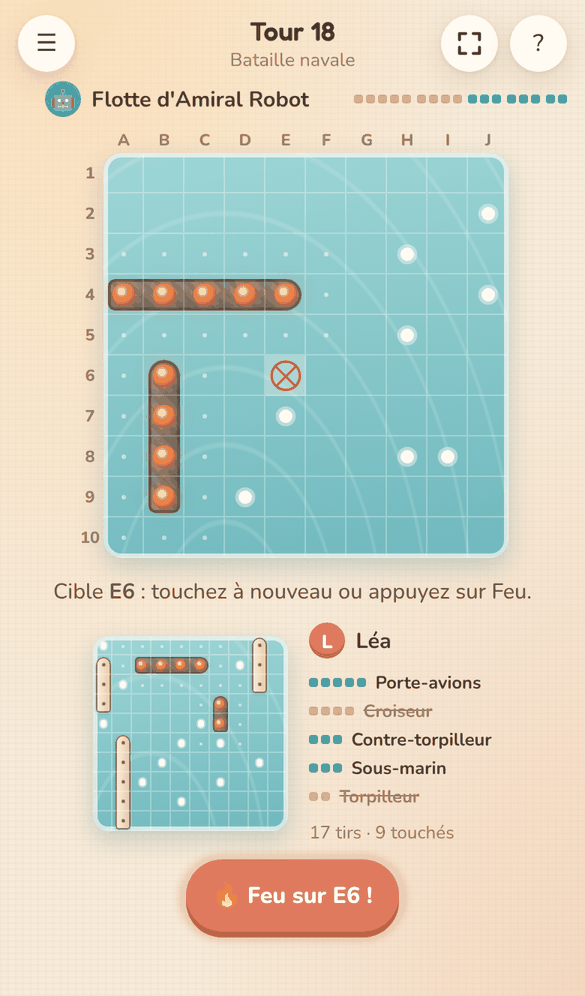
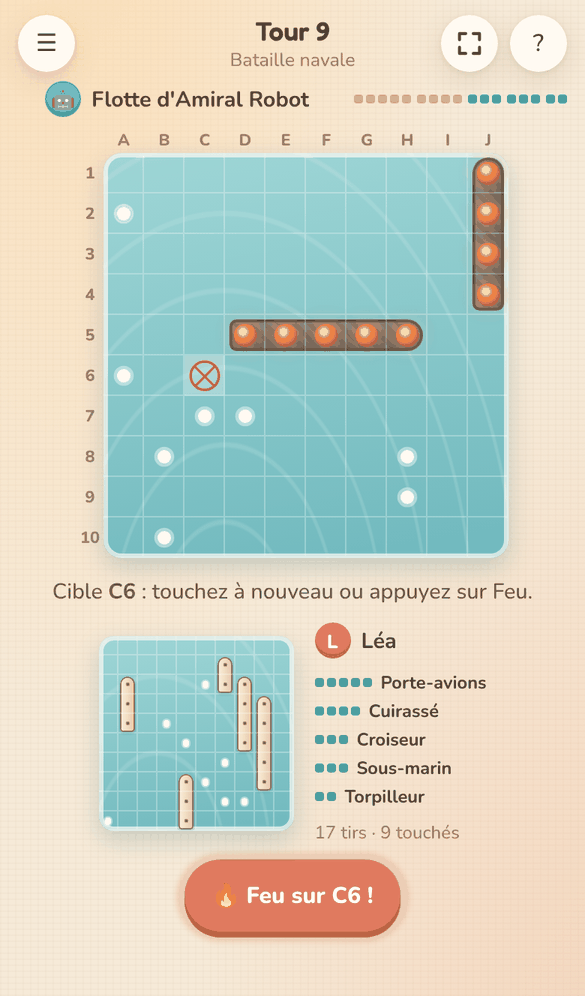
Bataille navale : règles classiques, navires collés autorisés et touché = on rejoue
Flotte du Touché Coulé (porte-avions, cuirassé, croiseur, sous-marin, torpilleur).
Les navires peuvent se toucher mais pas se chevaucher ; plus d'eau déduite autour des navires coulés.
Un tir au but permet de rejouer (aussi pour l'ordinateur) ; à deux, l'adversaire voit et revoit
tous les tirs du tour. Captures d'écran et README mis à jour.

Claude-Session: https://claude.ai/code/session_01AF6taeG9chrrGYHmKUShLX

diff --git a/js/games/naval/view.js b/js/games/naval/view.js
@@ -7,7 +7,7 @@ import { confirmDialog, toast, esc } from '../../ui/dialog.js';
 import { soundOn, setSound, shotSound, splashSound, boomSound, tickSound } from '../../ui/sound.js';
 import { fullscreenButton } from '../../ui/fullscreen.js';
 
-const { N, COLS, FLEET, MISS, HIT, WATER } = R;
+const { N, COLS, FLEET } = R;
 const avatar = (p) => `<span class="avatar" style="--pc:${p.color || '#c98a4b'}">${p.cpu ? '🤖' : esc(p.name.slice(0, 1).toUpperCase())}</span>`;
 // « de Bob », « d'Alice »
 const de = (name) => (/^[aeiouyhàâéèêëîïôûü]/i.test(name) ? `d'${name}` : `de ${name}`);
@@ -26,8 +26,8 @@ export function mount(root, s, host) {
     drag: null,
     aim: null, // case visée, avant de tirer
     busy: false, // effet en cours ou tour de l'ordinateur
-    hide: null, // { board, idx, around } : résultat pas encore montré (l'effet est en route)
-    fresh: null, // { board, idx, sunk, around } : résultat qui vient d'apparaître
+    hide: null, // { board, cells } : résultats pas encore montrés (l'effet est en route)
+    fresh: null, // { board, idx, sunk } : résultat qui vient d'apparaître
     overlay: null, // menu | rules
     endClosed: false,
     finished: false,
@@ -81,22 +81,19 @@ export function mount(root, s, host) {
     const sunk = kind === 'place' ? [] : R.sunkShips(s, owner);
     const hide = ui.hide?.board === kind ? ui.hide : null;
     const fresh = ui.fresh?.board === kind ? ui.fresh : null;
-    const freshAround = fresh ? fresh.around || [] : [];
     const live = kind === 'enemy' && canFire();
     let cells = '';
     for (let i = 0; i < N * N; i++) {
       let v = seen ? seen[i] : 0;
-      if (hide && (hide.idx === i || hide.around?.includes(i))) v = 0;
+      if (hide?.cells.includes(i)) v = 0;
       const cls = [`v${v}`];
       if (fresh && (fresh.idx === i)) cls.push('new');
-      const d = freshAround.indexOf(i);
-      if (d >= 0) cls.push('new');
       if (ui.aim === i && kind === 'enemy') cls.push('aim');
       if (live && !v) cls.push('open');
-      cells += `<button class="cell ${cls.join(' ')}" data-cell="${i}" data-k="${kind}" ${d >= 0 ? `style="--d:${200 + d * 35}ms"` : ''} aria-label="${R.cellName(i)}"></button>`;
+      cells += `<button class="cell ${cls.join(' ')}" data-cell="${i}" data-k="${kind}" aria-label="${R.cellName(i)}"></button>`;
     }
     const ships = fleet.map((sh, k) => {
-      const isSunk = sunk.includes(k) && !(hide && R.shipCells(sh).includes(hide.idx));
+      const isSunk = sunk.includes(k) && !(hide && R.shipCells(sh).some((x) => hide.cells.includes(x)));
       if (kind === 'enemy' && !isSunk && s.phase !== 'end') return '';
       const cls = ['ship', sh.h ? 'h' : 'v'];
       if (isSunk) cls.push('sunk');
@@ -126,7 +123,7 @@ export function mount(root, s, host) {
     const k = ui.selShip;
     return `<section class="place">
       <h2>${avatar(P(s.placer))} Placez votre flotte</h2>
-      <p class="muted">Faites glisser un navire pour le déplacer. Touchez-le puis « Tourner » pour changer son sens. Les navires ne doivent pas se toucher.</p>
+      <p class="muted">Faites glisser un navire pour le déplacer. Touchez-le puis « Tourner » pour changer son sens. Les navires peuvent se toucher, mais pas se chevaucher.</p>
       ${board('place', s.placer, big)}
       <ul class="dock">${FLEET.map((f, j) => `<li><button class="${k === j ? 'on' : ''}" data-pick="${j}"><span class="segs">${'<i></i>'.repeat(f.size)}</span>${f.name}</button></li>`).join('')}</ul>
       <div class="bn-actions">
@@ -141,7 +138,7 @@ export function mount(root, s, host) {
     let target = ship;
     if (!R.fits(ui.draft, target, k)) {
       target = snap ? R.nearestFit(ui.draft, ship, k) : null;
-      if (!target) { toast('Pas de place ici : les navires ne doivent pas se toucher'); return false; }
+      if (!target) { toast('Pas de place ici : les navires ne peuvent pas se chevaucher'); return false; }
     }
     ui.draft[k] = target;
     tickSound({ pitch: 0.8 });
@@ -192,7 +189,7 @@ export function mount(root, s, host) {
     if (!d) return;
     ui.drag = null;
     if (d.moved && d.pos) {
-      if (R.fits(ui.draft, d.pos, d.k)) { ui.draft[d.k] = d.pos; tickSound({ pitch: 0.8 }); } else toast('Les navires ne doivent pas se toucher');
+      if (R.fits(ui.draft, d.pos, d.k)) { ui.draft[d.k] = d.pos; tickSound({ pitch: 0.8 }); } else toast('Les navires ne peuvent pas se chevaucher');
     }
     ui.selShip = d.k;
     render();
@@ -235,6 +232,7 @@ export function mount(root, s, host) {
     const l = s.last;
     if (s.current !== me && l?.by === me) return `${lastText(l, true)}`;
     if (ui.aim != null) return `<span>Cible <b>${R.cellName(ui.aim)}</b> : touchez à nouveau ou appuyez sur Feu.</span>`;
+    if (l?.by === me && l.hit) return `<span class="again">${lastText(l, true)}</span><span>Vous avez touché : rejouez !</span>`;
     const before = l && l.by !== me ? `<span class="recv">${esc(P(l.by).name)} : ${lastText(l, false)}</span>` : '';
     return `${before}<span>À vous ! Touchez une case de la grille adverse.</span>`;
   }
@@ -266,8 +264,10 @@ export function mount(root, s, host) {
     if (s.phase === 'place') {
       news = '<p>Placez votre flotte en secret : l\'autre joueur ne doit pas regarder !</p>';
       btn = 'C\'est moi, placer ma flotte';
-    } else if (s.last && s.last.by !== i) {
-      news = `<div class="news"><b>Pendant ce temps…</b><ul><li class="${s.last.hit ? 'secret' : ''}">${esc(P(s.last.by).name)} a tiré : ${esc(lastText(s.last, false))}</li></ul></div>`;
+    } else if (s.volley && s.volley.by !== i) {
+      const shots = s.volley.shots.map((x) => `<li class="${x.hit ? 'secret' : ''}">${esc(lastText(x, false))}</li>`).join('');
+      const n = s.volley.shots.length;
+      news = `<div class="news"><b>${esc(P(s.volley.by).name)} a tiré ${n > 1 ? `${n} fois` : 'une fois'} :</b><ul>${shots}</ul></div>`;
     }
     return `<div class="overlay handoff">
       <div class="sheet">
@@ -326,14 +326,15 @@ export function mount(root, s, host) {
         <p>Chaque joueur cache sa flotte sur une grille de 10 × 10 cases, puis on tire chacun son tour pour couler les navires adverses. Le premier qui coule toute la flotte d'en face gagne.</p>
         <h3>La flotte</h3>
         <ul class="fleet-rules">${FLEET.map((f) => `<li><span class="segs">${'<i></i>'.repeat(f.size)}</span><b>${f.name}</b> · ${f.size} cases</li>`).join('')}</ul>
-        <p>Les navires sont droits (horizontaux ou verticaux) et <b>ne se touchent pas</b>, même par un coin.</p>
+        <p>Les navires sont droits (horizontaux ou verticaux). Ils <b>peuvent se toucher</b>, mais pas se chevaucher.</p>
         <h3>À votre tour</h3>
         <ol>
           <li>Touchez une case de la grille adverse pour viser, puis touchez-la encore (ou « Feu ») pour tirer.</li>
           <li><b>Dans l'eau</b> 💦, <b>touché</b> 💥 ou <b>coulé</b> quand toutes les cases d'un navire sont touchées.</li>
-          <li>Autour d'un navire coulé, les cases sont forcément de l'eau : elles sont marquées pour vous.</li>
+          <li><b>Touché ? Vous rejouez</b>, jusqu'à tomber dans l'eau.</li>
+          <li>Quand un navire coule, son nom est annoncé à l'adversaire.</li>
         </ol>
-        <p>Un tir par tour, touché ou non. À deux, on se passe le téléphone ; seul, on affronte l'Amiral Robot.</p>
+        <p>Le premier qui coule les 5 navires adverses gagne. À deux, on se passe le téléphone quand un tir tombe à l'eau ; seul, on affronte l'Amiral Robot.</p>
         <p>En bas, votre propre flotte montre les tirs reçus.</p>
       </div>
     </div>`;
@@ -411,12 +412,12 @@ export function mount(root, s, host) {
     host.save(s);
     ui.aim = null;
     ui.busy = true;
-    ui.hide = { board: kind, idx, around: res.around };
+    ui.hide = { board: kind, cells: [idx] };
     render();
     await shotFx(kind, idx, res);
     if (!alive) return res;
     ui.hide = null;
-    ui.fresh = { board: kind, idx, sunk: res.sunk, around: res.around };
+    ui.fresh = { board: kind, idx, sunk: res.sunk };
     render();
     if (res.sunk !== null) {
       const name = FLEET[res.sunk].name.toLowerCase();
@@ -429,6 +430,7 @@ export function mount(root, s, host) {
     }
     ui.busy = false;
     render();
+    if (res.again && kind === 'enemy') toast('💥 Touché : vous rejouez !', 1600);
     return res;
   }
 
@@ -439,20 +441,28 @@ export function mount(root, s, host) {
     await wait(650 + Math.random() * 450);
     if (!alive) return;
     await shoot(cpuTarget(s));
+    cpuTurn(); // touché : il rejoue
   }
 
-  // à la reprise du tour (à deux), on revoit le tir que l'adversaire vient de faire sur notre flotte
+  // à la reprise du tour (à deux), on revoit les tirs que l'adversaire vient de faire sur notre flotte
   async function replayLast() {
-    const l = s.last;
-    if (!l || l.by === ui.viewer) return render();
+    const v = s.volley;
+    if (!v || v.by === ui.viewer) return render();
     ui.busy = true;
-    ui.hide = { board: 'mine', idx: l.idx, around: [] };
+    const cells = v.shots.map((x) => x.idx);
+    ui.hide = { board: 'mine', cells: [...cells] };
     render();
     await wait(250);
-    await shotFx('mine', l.idx, l);
+    for (const x of v.shots) {
+      await shotFx('mine', x.idx, x);
+      if (!alive) return;
+      ui.hide.cells = ui.hide.cells.filter((i) => i !== x.idx);
+      ui.fresh = { board: 'mine', idx: x.idx, sunk: x.sunk };
+      render();
+      await wait(x.sunk !== null ? 700 : 300);
+    }
     ui.hide = null;
     ui.busy = false;
-    ui.fresh = { board: 'mine', idx: l.idx, sunk: l.sunk, around: [] };
     render();
   }
 
@@ -536,7 +546,7 @@ export function mount(root, s, host) {
     }
     if (kind !== 'enemy' || !canFire()) return;
     const v = s.shots[ui.viewer][i];
-    if (v) { toast(v === WATER ? 'Il n\'y a que de l\'eau ici' : 'Déjà tiré ici'); return; }
+    if (v) { toast('Déjà tiré ici'); return; }
     if (ui.aim === i) {
       await shoot(i);
       if (cpu) cpuTurn();

diff --git a/js/games/naval/rules.js b/js/games/naval/rules.js
@@ -1,14 +1,14 @@
 // Bataille navale : moteur de règles pur, état sérialisable en JSON.
-// Grille de 10 × 10 ; cases numérotées 0…99 (ligne × 10 + colonne). Les navires ne se touchent pas,
-// même en diagonale : quand un navire coule, les cases autour sont donc forcément de l'eau.
+// Règles classiques (« Touché Coulé ») : grille de 10 × 10, cases numérotées 0…99 (ligne × 10 + colonne),
+// 5 navires droits qui peuvent se toucher mais pas se chevaucher. Variante maison : touché = on rejoue.
 
 export const N = 10;
 export const COLS = 'ABCDEFGHIJ';
 
 export const FLEET = [
   { name: 'Porte-avions', size: 5 },
-  { name: 'Croiseur', size: 4 },
-  { name: 'Contre-torpilleur', size: 3 },
+  { name: 'Cuirassé', size: 4 },
+  { name: 'Croiseur', size: 3 },
   { name: 'Sous-marin', size: 3 },
   { name: 'Torpilleur', size: 2 },
 ];
@@ -17,7 +17,6 @@ export const FLEET = [
 export const UNKNOWN = 0;
 export const MISS = 1;
 export const HIT = 2;
-export const WATER = 3; // eau déduite autour d'un navire coulé (pas un tir)
 
 export const cellName = (i) => `${COLS[i % N]}${Math.floor(i / N) + 1}`;
 
@@ -32,28 +31,13 @@ const inside = (ship) => {
   return ship.r >= 0 && ship.c >= 0 && (ship.h ? ship.c + size <= N && ship.r < N : ship.r + size <= N && ship.c < N);
 };
 
-function neighbors(i, diag = true) {
-  const r = Math.floor(i / N);
-  const c = i % N;
-  const out = [];
-  for (let dr = -1; dr <= 1; dr++) {
-    for (let dc = -1; dc <= 1; dc++) {
-      if ((!dr && !dc) || (!diag && dr && dc)) continue;
-      const rr = r + dr;
-      const cc = c + dc;
-      if (rr >= 0 && rr < N && cc >= 0 && cc < N) out.push(rr * N + cc);
-    }
-  }
-  return out;
-}
-
 // le navire `ship` peut-il être placé parmi les autres navires de `fleet` (sauf celui d'index `skip`) ?
 export function fits(fleet, ship, skip = -1) {
   if (!inside(ship)) return false;
   const taken = new Set();
   fleet.forEach((o, j) => {
     if (j === skip || !o) return;
-    for (const i of shipCells(o)) { taken.add(i); neighbors(i).forEach((x) => taken.add(x)); }
+    for (const i of shipCells(o)) taken.add(i);
   });
   return shipCells(ship).every((i) => !taken.has(i));
 }
@@ -126,7 +110,7 @@ export const opponent = (i) => 1 - i;
 
 export function placeFleet(s, i, fleet) {
   if (s.phase !== 'place' || s.placer !== i) throw new Error('Ce n\'est pas le moment de placer cette flotte');
-  if (!validFleet(fleet)) throw new Error('Les navires ne doivent pas se toucher');
+  if (!validFleet(fleet)) throw new Error('Les navires ne peuvent pas se chevaucher');
   s.fleets[i] = fleet.map(({ k, r, c, h }) => ({ k, r, c, h }));
   s.placer = s.fleets.findIndex((f) => !f);
   if (s.placer < 0) s.phase = 'battle';
@@ -145,31 +129,26 @@ export function fire(s, idx) {
   const opp = opponent(by);
   const board = s.shots[by];
   if (board[idx] === MISS || board[idx] === HIT) throw new Error('Vous avez déjà tiré ici');
-  if (board[idx] === WATER) throw new Error('Il n\'y a que de l\'eau ici');
   const k = shipAt(s.fleets[opp], idx);
   const hit = k >= 0;
   board[idx] = hit ? HIT : MISS;
   s.fired[by]++;
   let sunk = null;
-  const around = [];
   if (hit) {
     s.hits[by]++;
-    const cells = shipCells(s.fleets[opp][k]);
-    if (cells.every((x) => board[x] === HIT)) {
-      sunk = k;
-      for (const x of cells) {
-        for (const y of neighbors(x)) if (board[y] === UNKNOWN) { board[y] = WATER; around.push(y); }
-      }
-    }
+    if (shipCells(s.fleets[opp][k]).every((x) => board[x] === HIT)) sunk = k;
   }
   s.last = { by, idx, hit, sunk };
+  // tous les tirs du tour en cours (on rejoue tant qu'on touche), pour les montrer à l'adversaire
+  if (s.volley?.by !== by) s.volley = { by, shots: [] };
+  s.volley.shots.push({ idx, hit, sunk });
   const win = sunk !== null && sunkShips(s, opp).length === FLEET.length;
   if (win) {
     s.phase = 'end';
     s.winner = by;
-  } else {
+  } else if (!hit) {
     s.current = opp;
     if (by !== s.first) s.turn++;
   }
-  return { idx, hit, sunk, around, win };
+  return { idx, hit, sunk, win, again: hit && !win };
 }

diff --git a/js/games/naval/ai.js b/js/games/naval/ai.js
@@ -1,7 +1,7 @@
 // L'Amiral Robot : il compte, pour chaque case, combien de positions des navires restants la recouvrent
 // (en tenant compte des tirs déjà connus) et tire là où c'est le plus probable.
 // Quand il a touché un navire pas encore coulé, il ne garde que les positions qui passent par ce coup.
-import { N, FLEET, MISS, HIT, WATER, shipCells, sunkShips, opponent } from './rules.js';
+import { N, FLEET, MISS, HIT, shipCells, sunkShips, opponent } from './rules.js';
 
 export function cpuTarget(s, rand = Math.random) {
   const me = s.current;
@@ -11,7 +11,7 @@ export function cpuTarget(s, rand = Math.random) {
   const sunkCells = new Set(sunk.flatMap((k) => shipCells(s.fleets[opp][k])));
   const open = new Set(); // coups au but sur des navires encore à flot
   board.forEach((v, i) => { if (v === HIT && !sunkCells.has(i)) open.add(i); });
-  const blocked = (i) => board[i] === MISS || board[i] === WATER || sunkCells.has(i);
+  const blocked = (i) => board[i] === MISS || sunkCells.has(i);
 
   const weight = Array(N * N).fill(0);
   const sizes = FLEET.map((f, k) => (sunk.includes(k) ? 0 : f.size)).filter(Boolean);

diff --git a/css/naval.css b/css/naval.css
@@ -133,7 +133,7 @@
   min-height: 3em; padding: 6px 16px; text-align: center; font-size: .9rem; color: #6d5646;
   display: flex; flex-direction: column; justify-content: center; gap: 2px;
 }
-.bn-status .recv { color: var(--accent-dark); font-weight: 800; }
+.bn-status .recv, .bn-status .again { color: var(--accent-dark); font-weight: 800; }
 .mine { display: flex; gap: 14px; align-items: center; justify-content: center; padding: 0 12px; }
 .mine .board { margin: 0; }
 .mine-info { display: grid; gap: 8px; min-width: 0; }

diff --git a/README.md b/README.md
@@ -43,11 +43,14 @@ Les règles résumées et le détail des cartes sont accessibles en jeu avec le 
 
 ### Bataille navale (1 ou 2 joueurs)
 
-- grille de 10 × 10, flotte classique : porte-avions (5), croiseur (4), contre-torpilleur (3), sous-marin (3), torpilleur (2) ;
-- les navires ne se touchent pas (même en diagonale) : autour d'un navire coulé, l'eau est marquée automatiquement ;
+Règles classiques du « Touché Coulé », avec une variante maison :
+- grille de 10 × 10 (colonnes A à J, lignes 1 à 10) et 5 navires droits : porte-avions (5), cuirassé (4), croiseur (3), sous-marin (3), torpilleur (2) ;
+- les navires peuvent se toucher, mais pas se chevaucher ;
+- on annonce « dans l'eau », « touché » ou « touché-coulé » en nommant le navire coulé ; le premier qui coule les 5 navires adverses gagne ;
+- **variante : touché = on rejoue**, jusqu'à tomber dans l'eau ;
 - placement par glisser-déposer, bouton « Tourner » et placement au hasard ;
 - on vise une case puis on tire (deuxième appui ou bouton « Feu ») : boulet, plouf ou explosion, navire qui sombre ;
-- à deux, on se passe le téléphone après chaque tir (le joueur suivant revoit le tir reçu sur sa flotte) ;
+- à deux, on se passe le téléphone quand un tir tombe dans l'eau ; le joueur suivant voit la liste des tirs reçus et les revoit sur sa flotte ;
 - seul, on affronte l'**Amiral Robot**, qui traque les navires touchés et estime où se cachent les autres.
 
 ## Lancer en local
